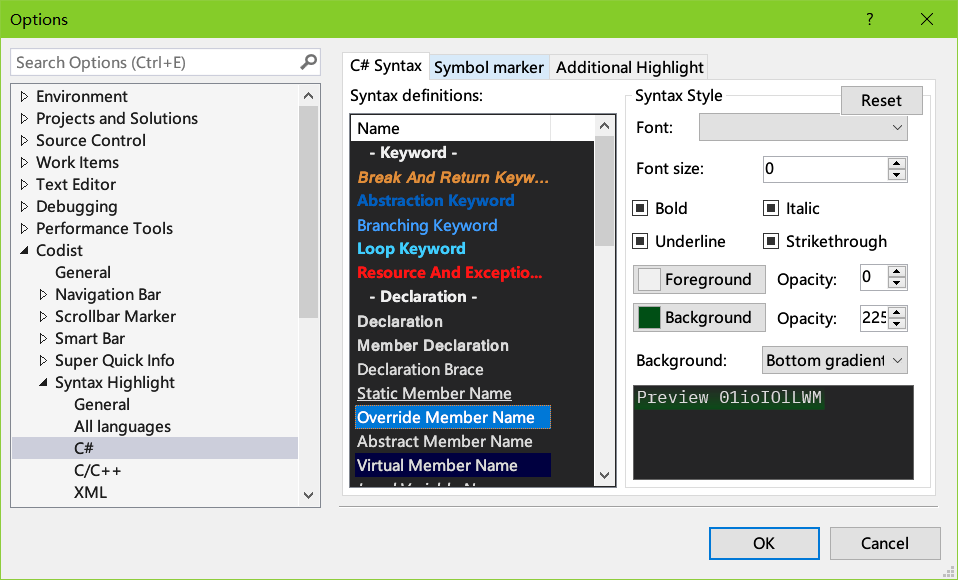
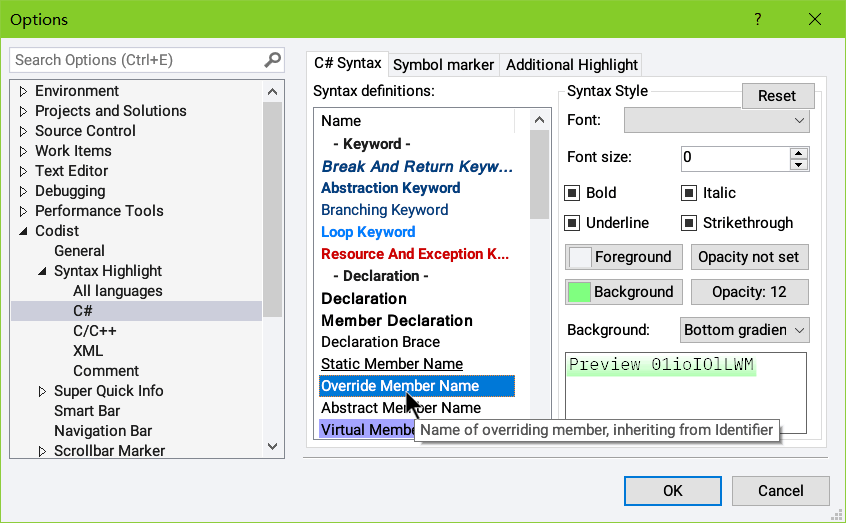
Version 4.6: + Added Ctrl+C command to copy content in the Super Quick Info ! Compacted display of methods in Super Quick Info + Added option to show members of interfaces in Super Quick Info ! Used C# specific keyword names for special types in tooltips ! Made syntax highlight compatible to VS 2019

diff --git a/Codist/CodistPackage.cs b/Codist/CodistPackage.cs
@@ -14,7 +14,7 @@ namespace Codist
 	/// <para>The project consists of the following namespace: <see cref="SyntaxHighlight"/> backed by <see cref="Classifiers"/>, <see cref="SmartBars"/>, <see cref="QuickInfo"/>, <see cref="Margins"/>, <see cref="NaviBar"/> etc.</para>
 	/// </summary>
 	[PackageRegistration(UseManagedResourcesOnly = true, AllowsBackgroundLoading = true)]
-	[InstalledProductRegistration("#110", "#112", "4.5", IconResourceID = 400)] // Information on this package for Help/About
+	[InstalledProductRegistration("#110", "#112", "4.6", IconResourceID = 400)] // Information on this package for Help/About
 	[Guid(PackageGuidString)]
 	[ProvideOptionPage(typeof(Options.General), Constants.NameOfMe, "General", 0, 0, true, Sort = 0)]
 
@@ -116,7 +116,7 @@ namespace Codist
 		protected override async System.Threading.Tasks.Task InitializeAsync(CancellationToken cancellationToken, IProgress<ServiceProgressData> progress) {
 			await base.InitializeAsync(cancellationToken, progress);
 
-			VSColorTheme.ThemeChanged += (args) => {
+			VSColorTheme.ThemeChanged += _ => {
 				System.Diagnostics.Debug.WriteLine("Theme changed.");
 				ThemeHelper.RefreshThemeCache();
 			};

diff --git a/Codist/Commands/NaviBarSearchDeclarationCommand.cs b/Codist/Commands/NaviBarSearchDeclarationCommand.cs
@@ -5,18 +5,12 @@ using Microsoft.VisualStudio.Shell;
 namespace Codist.Commands
 {
 	/// <summary>
-	/// Command handler
+	/// A command handler which shows the root item menu of Navigation Bar.
 	/// </summary>
 	internal static class NaviBarSearchDeclarationCommand
 	{
-		/// <summary>
-		/// Command ID.
-		/// </summary>
 		public const int CommandId = 4130;
 
-		/// <summary>
-		/// Command menu group (command set GUID).
-		/// </summary>
 		public static readonly Guid CommandSet = new Guid("5EF88028-C0FC-4849-9883-10F4BD2217B3");
 
 		public static void Initialize(AsyncPackage package) {

diff --git a/Codist/Properties/AssemblyInfo.cs b/Codist/Properties/AssemblyInfo.cs
@@ -6,9 +6,9 @@ using System.Runtime.InteropServices;
 [assembly: AssemblyConfiguration("")]
 [assembly: AssemblyCompany("WMJ")]
 [assembly: AssemblyProduct(nameof(Codist))]
-[assembly: AssemblyCopyright("Copyright WMJ, 2018")]
+[assembly: AssemblyCopyright("Copyright WMJ, 2019")]
 [assembly: AssemblyTrademark(nameof(Codist))]
 [assembly: AssemblyCulture("")]
 [assembly: ComVisible(false)]
 [assembly: AssemblyVersion("4.0.0.0")]
-[assembly: AssemblyFileVersion("4.5.0.3387")]
+[assembly: AssemblyFileVersion("4.6.0.3490")]

diff --git a/Codist/SmartBars/SmartBar.CommonEdit.cs b/Codist/SmartBars/SmartBar.CommonEdit.cs
@@ -46,7 +46,7 @@ namespace Codist.SmartBars
 			}
 		}
 
-		protected SnapshotSpan Replace(CommandContext ctx, Func<string, string> replaceHandler, bool selectModified) {
+		protected static SnapshotSpan Replace(CommandContext ctx, Func<string, string> replaceHandler, bool selectModified) {
 			ctx.KeepToolBar(false);
 			var firstModified = new SnapshotSpan();
 			string t = ctx.View.GetFirstSelectionText();

diff --git a/README.md b/README.md
@@ -17,7 +17,7 @@
 
 ## Advanced C# Syntax Highlight
 
-  The advanced syntax highlight function highlights every aspect of C# language elements with various styles and font settings, changing font style sizes, changing background and foreground colors, making text semitransparent.
+  The advanced syntax highlight function highlights every aspect of C# language elements with diverse styles, including using various font families and text styles, enlarging or shrinking font sizes, changing foreground or background colors and transparency.
 
   The following screenshots of the `TestPage.cs` file in the source code project demonstrates possible syntax highlight effects in the Light theme.
  
@@ -25,17 +25,17 @@
 
   * The font size of type and member declarations can be enlarged, so it is much easier to spot them.
   * Syntax highlight can be applied to braces and parentheses.
-  * Various syntax identifiers have different styles.
+  * Various syntax identifiers have different styles, temporary elements such as method parameters and local variables are italic, static symbols are underlined.
   * Comment content can be tagged (e.g. _note_).
   * Unnecessary code is marked strike-through.
   * Keywords are categorized and highlighted with various styles (e.g. `abstract` and `sealed`, `return` and `throw`, etc.).
-  * Overriding methods (such as `ToString`) can be painted with gradient background color.
-  * Imported symbols (from external assemblies, e.g. `NotImplementedException`, `ToString`) can be marked with a different style (bold here) from symbols in your code, which are also possible to be styled.
+  * Overriding members (such as `ToString`) can be painted with gradient background color, so at a glance we know that the marked implementations have overrided their base classes.
+  * Imported symbols (from external assemblies, e.g. `NotImplementedException`, `ToString`) can be marked with a different style (bold here) from symbols defined in your code.
   * All the above styles are customizable.
 
 ### Default Syntax Highlight Themes
 
-  To quickly get started with advanced syntax highlight, navigate to the *Syntax Highlight* section, click the **Light theme** or **Dark theme** button in the *options* dialog and see them in effect. Don't forget to click the *OK* button to confirm the change.
+  To quickly get started with advanced syntax highlight, open a C# project, then open the _Options_ dialog, navigate to the *Syntax Highlight* section, click the **Light theme** or **Dark theme** button in the dialog and see changes in effect. Don't forget to click the *OK* button to confirm the changes.
 
   ![Load Theme](doc/load-theme.png)
 
@@ -43,7 +43,7 @@
 
   If you mess up your syntax highlight styles, you can press the _Reset_ button to reset all settings to default, or press the _Light theme_ or _Dark theme_ button to reapply predefined themes.
 
-  **Note**: There is a known issue in _Codist_ that if you change the theme of Visual Studio, you may have to restart it for the syntax highlight to work properly.
+  **Note**: There is a known issue in _Codist_ that if you change the theme of Visual Studio, you may have to restart it to make syntax highlight settings to work properly.
 
   From version 4.5 on, it is possible to load only part of the syntax preset or backup theme by unchecking check boxes under _Load following parts when importing themes_.
 
@@ -52,6 +52,8 @@
   To customize and tweak the syntax highlight styles, click the sub sections inside the *Syntax Highlight* section to change individual styles, accordingly.
 
   ![Style customization](doc/syntax-highlight.png)
+
+  From version 4.6 on, it is possible to configure color and opacity individually. If we change the opacity value only, the default syntax color for a syntax definition is used.
 
   Syntax definitions under the _All languages_ section apply to all languages; those under _Comment_ section apply to comment taggers (see below), others apply to corresponding languages accordingly.
 
@@ -272,7 +274,7 @@ By default, _Smart Bar_ appears after selection change, you can change the behav
 
   ![Smart Bar Options](doc/smart-bar-options.PNG)
 
-_Smart Bar_ automatically disappear when you move your mouse cursor away from it, or execute a certain commands on the _Smart Bar_, or click somewhere else in the code editor window, emptying the selection.
+_Smart Bar_ automatically disappears when you move your mouse cursor away from it, or execute a certain commands on the _Smart Bar_, or click somewhere else in the code editor window, emptying the selection.
 
 To make _Smart Bar_ reappear, you can tap the `Shift` key on your keyboard twice within a second. This behavior can also be suppressed by unchecking the **Show/hide Smart Bar with Shift key** checkbox.
 
